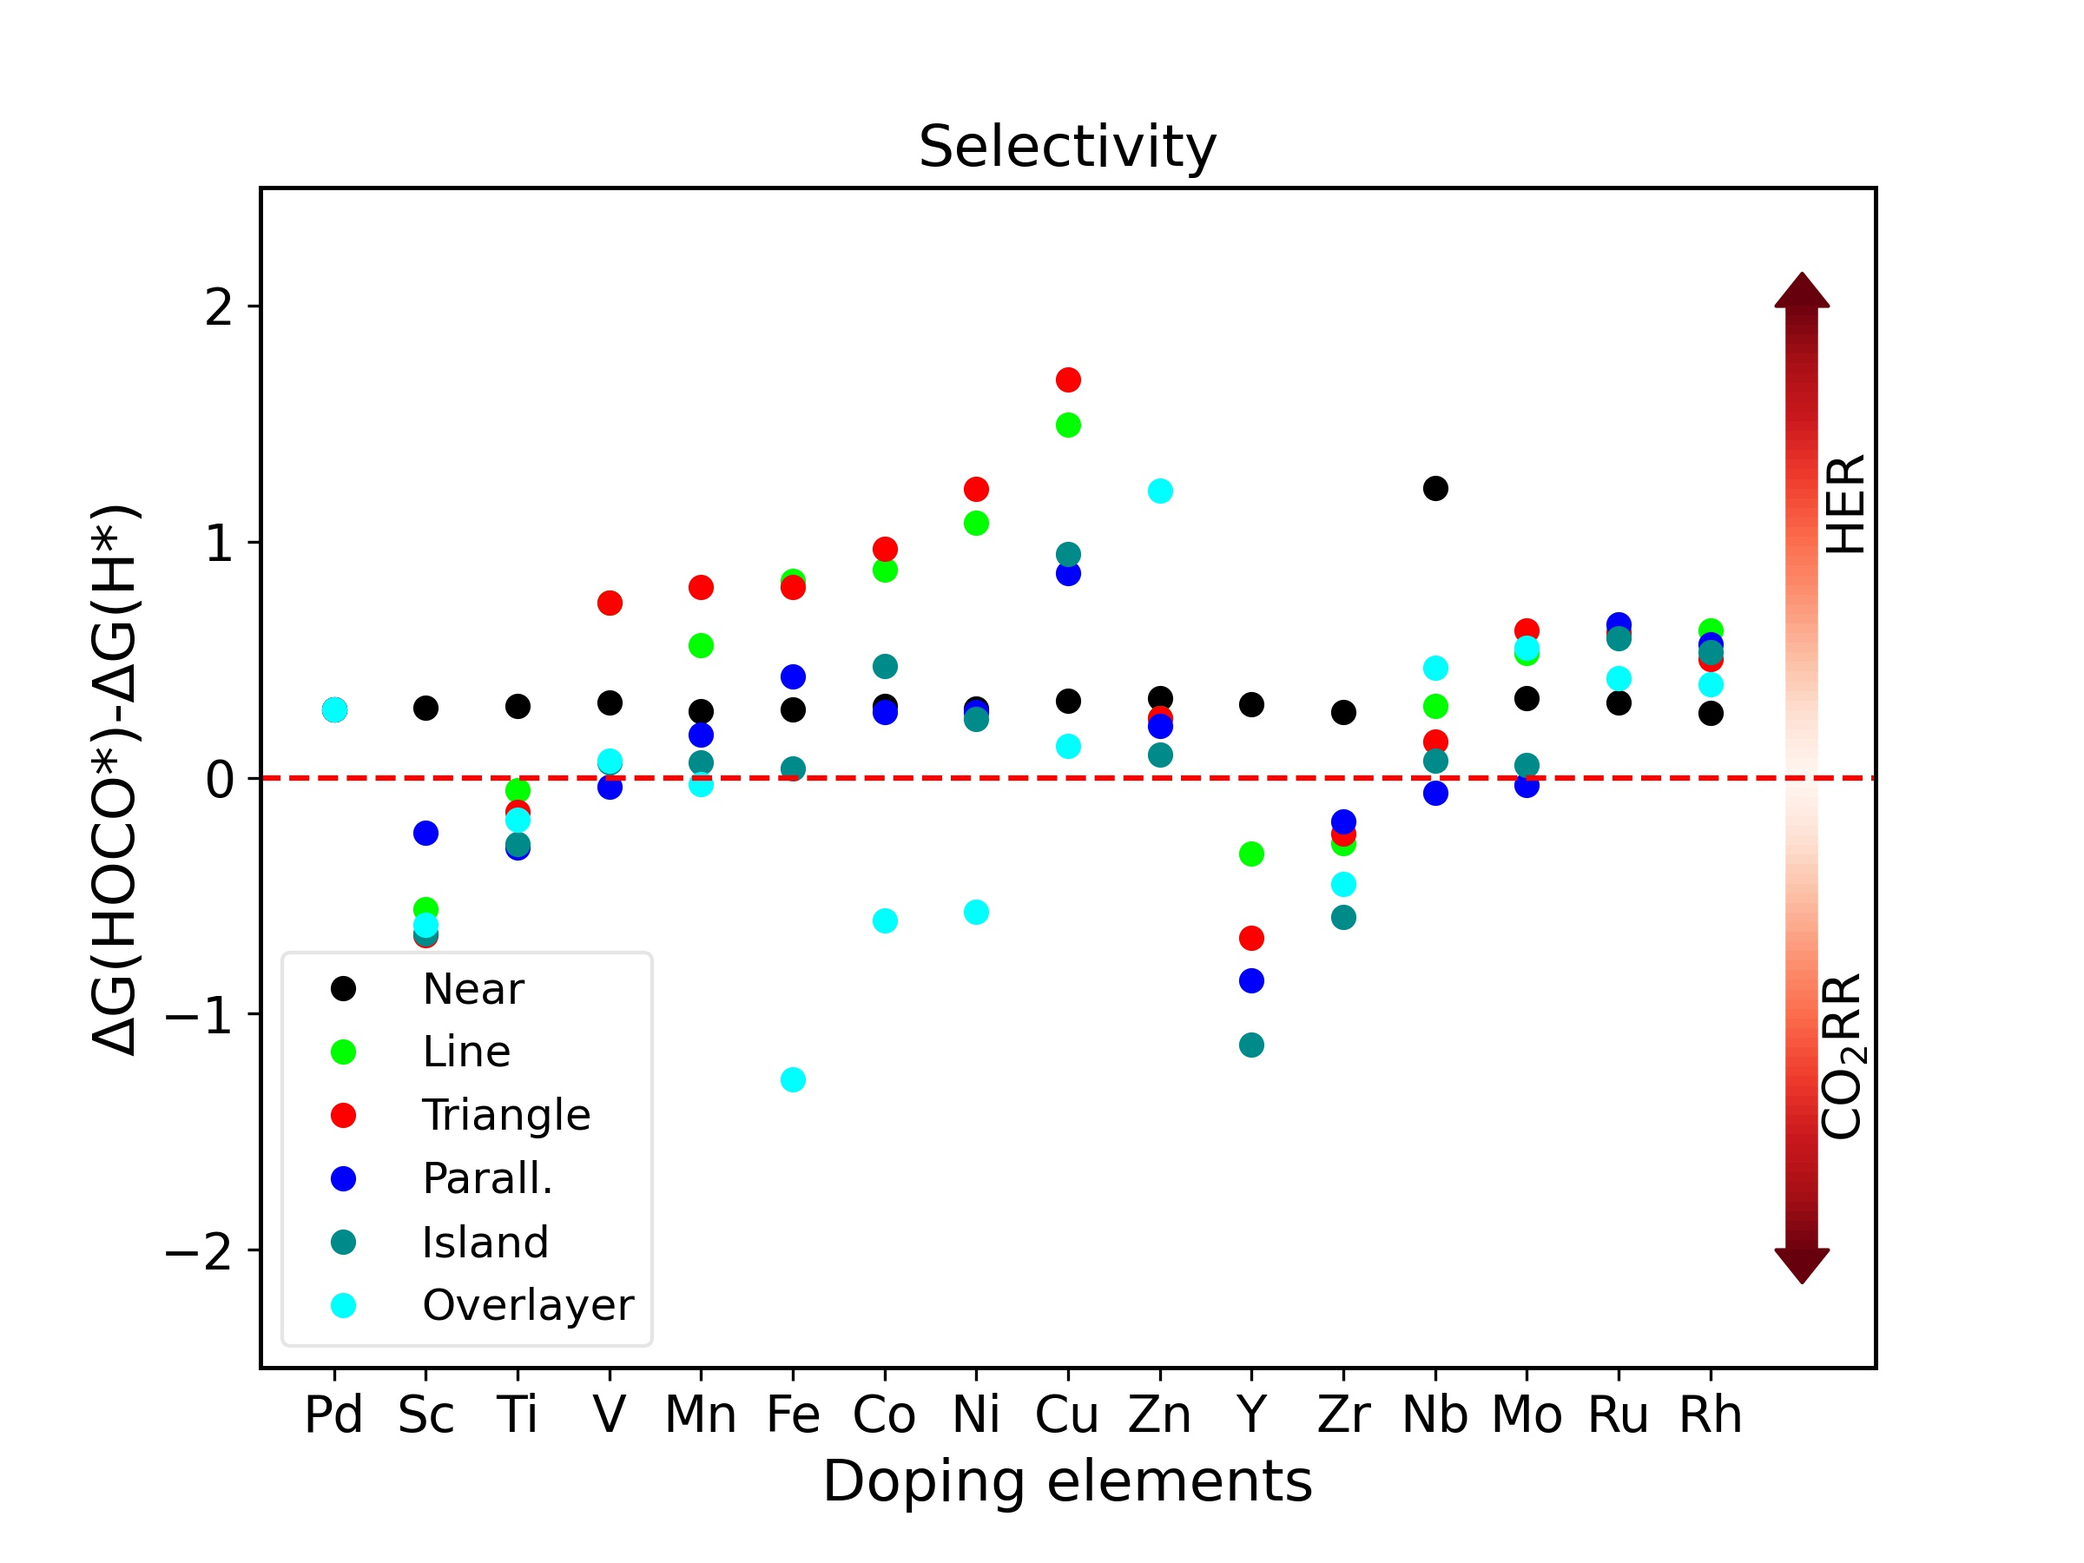
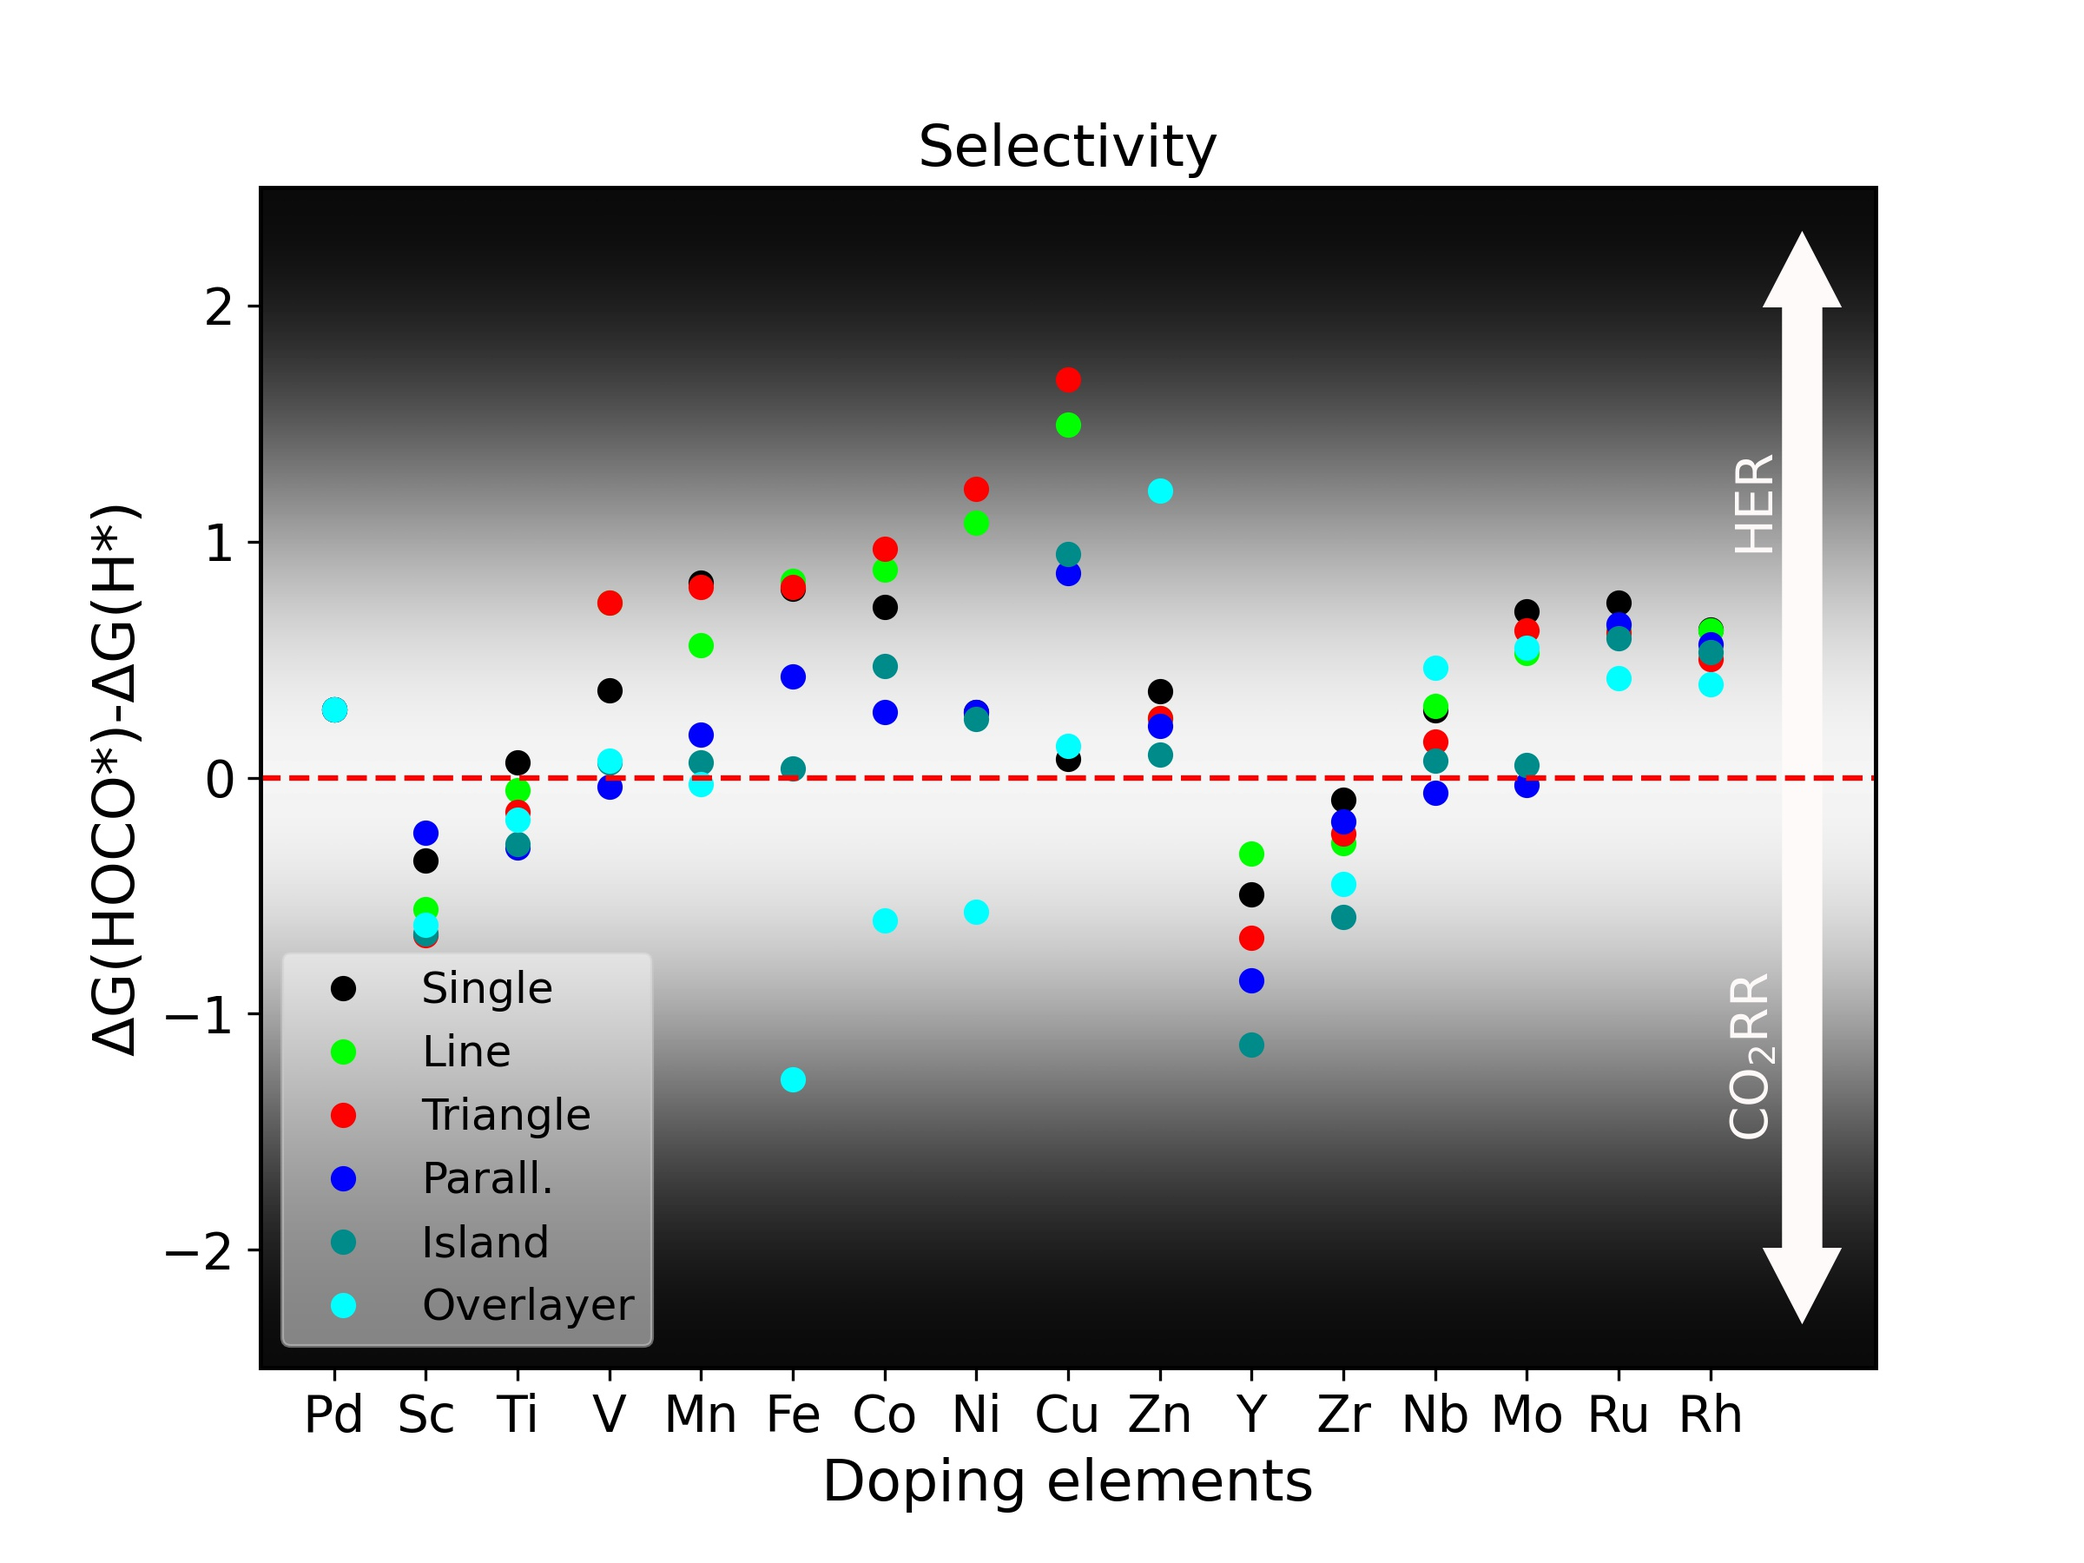
update data

diff --git a/plotpackage/myproject/CO2RR_sacling_typesetting.py b/plotpackage/myproject/CO2RR_sacling_typesetting.py
@@ -25,53 +25,60 @@ max_col = 5 #5th column in excel
 figName1 = '../pictures/CO2RR_FreeEnergy_typesetting.jpg'  #free energy diagram name
 figName2 = '../pictures/ScalingRelation_typesetting.jpg' #scaling reation figure name
 
-i = 0
-fig = plt.figure(figsize=(18, 16), dpi = 300)
-text = ['Near', 'Line', 'Triangle', 'Parall.', 'Island', 'Overlayer']
-# col1 = [2, 2, 2, 3, 3, 5] #column in excel
-# col2 = [3, 5, 4, 5, 4, 4] #column in excel
-col1=2 # column in excel
-col2=3 # column in excel
-col1 = col1 - 2
-col2 = col2 - 2
-for types in ['near-new', 'line', 'triangle', 'paral-new', 'island-new', 'overly-new']:
-    #change it only for excel
-    sheet = types #Sheet1 by defaut
-    min_row = 1 #1st column in excel
-    max_row = 18 #9st column in excel
-    
-    ############ plot free energy diagram ###############
-    stepsNames, observationName, X = read_excel(filename, sheet, min_col, max_col, min_row, max_row) #load excel data
-    #stepsNames, observationName, X = read_csv(filename, , min_col, max_col) #load csv data
-    
-    # # del rows; delete according to element names in excel
-    del_ele = []
-    if types == 'near-new':
-        del_ele = ['Fe', 'Ru', 'Zr', 'Y', 'Mn', 'Nb', 'Zn' ] #remove distortion for near
-    elif types == 'line':
-        del_ele = ['Ag', 'Y'] #remove distortion for line
-    elif types == 'triangle':
-        del_ele = ['Y',] #remove distortion for triangle
-    elif types == 'paral-new':
-        del_ele = ['Zn', 'Y', 'Zr'] #remove distortion for line
-    elif types == 'island-new':
-        del_ele = ['Y', 'Zr',  'Zn'] #remove distortion for line
-    elif types == 'overly-new':
-        del_ele = ['Sc', 'Zn', 'Y', 'Zr'] #remove distortion for line
+
+# text = ['Near', 'Line', 'Triangle', 'Parall.', 'Island', 'Overlayer']
+text = ['Single', 'Line', 'Triangle', 'Parall.', 'Island', 'Overlayer']
+colx = [2, 2, 2, 3, 3, 5] #column in excel
+coly = [3, 5, 4, 5, 4, 4] #column in excel
+for index in [0, 1, 4]:
+    # col1=3 # column in excel
+    # col2=4 # column in excel
+    col1=colx[index] # column in excel
+    col2=coly[index] # column in excel
+    col1 = col1 - 2
+    col2 = col2 - 2
+    i = 0
+    fig = plt.figure(figsize=(18, 16), dpi = 300)
+    for types in ['top-new', 'line', 'triangle', 'paral-new', 'island-new', 'overly-new']:
+        #change it only for excel
+        sheet = types #Sheet1 by defaut
+        min_row = 1 #1st column in excel
+        max_row = 18 #9st column in excel
         
-    del_rows = [observationName.index(each)+2 for each in del_ele]
-    ### del_rows = [10, 12, 13, 18]  #delete according to rows in excel
-    del_list = [x - 2 for x in del_rows]
-    observationName = np.delete(observationName, del_list, 0)
-    X = np.delete(X, del_list, 0)
-    
-    M  = 3
-    ax = plt.subplot(3, 3, i + 1)
-    descriper1 = (X[:, col1]).astype(float) 
-    descriper2 = (X[:, col2]).astype(float) 
-    sr = ScalingRelationPlot(descriper1, descriper2, observationName, figName2)   
-    sr.plot(ax = ax, save=False, title='', xlabel=stepsNames[col1], ylabel=stepsNames[col2], text=text[i])
-    
-    i = i +1
-    
-plt.show()
+        ############ plot free energy diagram ###############
+        stepsNames, observationName, X = read_excel(filename, sheet, min_col, max_col, min_row, max_row) #load excel data
+        #stepsNames, observationName, X = read_csv(filename, , min_col, max_col) #load csv data
+        
+        # # del rows; delete according to element names in excel
+        del_ele = []
+        if types == 'top-new':
+            del_ele = [] #remove distortion for near
+        if types == 'near-new':
+            del_ele = ['Fe', 'Ru', 'Zr', 'Y', 'Mn', 'Nb', 'Zn' ] #remove distortion for near
+        elif types == 'line':
+            del_ele = ['Ag', 'Y'] #remove distortion for line
+        elif types == 'triangle':
+            del_ele = ['Y',] #remove distortion for triangle
+        elif types == 'paral-new':
+            del_ele = ['Zn', 'Y', 'Zr'] #remove distortion for line
+        elif types == 'island-new':
+            del_ele = ['Y', 'Zr',  'Zn'] #remove distortion for line
+        elif types == 'overly-new':
+            del_ele = ['Sc', 'Zn', 'Y', 'Zr'] #remove distortion for line
+            
+        del_rows = [observationName.index(each)+2 for each in del_ele]
+        ### del_rows = [10, 12, 13, 18]  #delete according to rows in excel
+        del_list = [x - 2 for x in del_rows]
+        observationName = np.delete(observationName, del_list, 0)
+        X = np.delete(X, del_list, 0)
+        
+        M  = 3
+        ax = plt.subplot(3, 3, i + 1)
+        descriper1 = (X[:, col1]).astype(float) 
+        descriper2 = (X[:, col2]).astype(float) 
+        sr = ScalingRelationPlot(descriper1, descriper2, observationName, figName2)   
+        sr.plot(ax = ax, save=False, title='', xlabel=stepsNames[col1], ylabel=stepsNames[col2], text=text[i])
+        
+        i = i +1
+        
+    plt.show()

diff --git a/plotpackage/myproject/selectivity_multi_plot.py b/plotpackage/myproject/selectivity_multi_plot.py
@@ -50,49 +50,60 @@ ax = fig.gca()
 ax.set_xticks(x)
 ax.set_xticklabels(observationName)
 
+
 ax.tick_params(labelsize=14) #tick label font size
 for axis in ['top','bottom','left','right']:
     ax.spines[axis].set_linewidth(1.2) #linewith of frame
+
     
-    
-# plt.arrow(x=16, y=0, dx=0, dy=2, width=.4, head_width=0.8, head_length=0.3) 
-# plt.annotate('HER', xy = (16.5, 1), rotation=90, fontsize=14)
+plt.arrow(x=16, y=0, dx=0, dy=2, width=.4, head_width=0.8, head_length=0.3, color='snow') 
+plt.annotate('HER', xy = (15.2, 1), rotation=90, fontsize=14, color='snow')
 
-# plt.arrow(x=16, y=0, dx=0, dy=-2, width=.4, head_width=0.8, head_length=0.3) 
-# plt.annotate('CO$_2$RR', xy = (16.5, -1.5), rotation=90, fontsize=14)
-import matplotlib.transforms
-import matplotlib.path
-from matplotlib.collections import LineCollection
+plt.arrow(x=16, y=0, dx=0, dy=-2, width=.4, head_width=0.8, head_length=0.3, color='snow') 
+plt.annotate('CO$_2$RR', xy = (15.2, -1.5), rotation=90, fontsize=14, color='snow')
+# import matplotlib.transforms
+# import matplotlib.path
+# from matplotlib.collections import LineCollection
 
-def rainbowarrow(ax, start, end, cmap="viridis", n=50,lw=3):
-    cmap = plt.get_cmap(cmap,n)
-    # Arrow shaft: LineCollection
-    x = np.linspace(start[0],end[0],n)
-    y = np.linspace(start[1],end[1],n)
-    points = np.array([x,y]).T.reshape(-1,1,2)
-    segments = np.concatenate([points[:-1],points[1:]], axis=1)
-    lc = LineCollection(segments, cmap=cmap, linewidth=lw)
-    lc.set_array(np.linspace(0,1,n))
-    ax.add_collection(lc)
-    # Arrow head: Triangle
-    tricoords = [(0,-0.4),(0.5,0),(0,0.4),(0,-0.4)]
-    angle = np.arctan2(end[1]-start[1],end[0]-start[0])
-    rot = matplotlib.transforms.Affine2D().rotate(angle)
-    tricoords2 = rot.transform(tricoords)
-    tri = matplotlib.path.Path(tricoords2, closed=True)
-    ax.scatter(end[0],end[1], c=1, s=(2*lw)**2, marker=tri, cmap=cmap,vmin=0)
-    ax.autoscale_view()
+# def rainbowarrow(ax, start, end, cmap="viridis", n=50,lw=3):
+#     cmap = plt.get_cmap(cmap,n)
+#     # Arrow shaft: LineCollection
+#     x = np.linspace(start[0],end[0],n)
+#     y = np.linspace(start[1],end[1],n)
+#     points = np.array([x,y]).T.reshape(-1,1,2)
+#     segments = np.concatenate([points[:-1],points[1:]], axis=1)
+#     lc = LineCollection(segments, cmap=cmap, linewidth=lw)
+#     lc.set_array(np.linspace(0,1,n))
+#     ax.add_collection(lc)
+#     # Arrow head: Triangle
+#     tricoords = [(0,-0.4),(0.5,0),(0,0.4),(0,-0.4)]
+#     angle = np.arctan2(end[1]-start[1],end[0]-start[0])
+#     rot = matplotlib.transforms.Affine2D().rotate(angle)
+#     tricoords2 = rot.transform(tricoords)
+#     tri = matplotlib.path.Path(tricoords2, closed=True)
+#     ax.scatter(end[0],end[1], c=1, s=(2*lw)**2, marker=tri, cmap=cmap,vmin=0)
+#     ax.autoscale_view()
 
-rainbowarrow(ax, (16,0), (16, 2), cmap='Reds', n=50, lw=9) 
-plt.annotate('HER', xy = (16.2, 1), rotation=90, fontsize=14)
+# rainbowarrow(ax, (16,0), (16, 2), cmap='Reds', n=50, lw=9) 
+# plt.annotate('HER', xy = (16.2, 1), rotation=90, fontsize=14)
 
-rainbowarrow(ax, (16,0), (16, -2), cmap='Reds', n=50, lw=9) 
-plt.annotate('CO$_2$RR', xy = (16.2, -1.5), rotation=90, fontsize=14)
-# plt.arrow(x=16, y=0, dx=0, dy=-2, width=.4, head_width=0.8, head_length=0.3) 
-# plt.annotate('CO$_2$RR', xy = (16.5, -1.5), rotation=90, fontsize=14)
+# rainbowarrow(ax, (16,0), (16, -2), cmap='Reds', n=50, lw=9) 
+# plt.annotate('CO$_2$RR', xy = (16.2, -1.5), rotation=90, fontsize=14)
+
+
+# ax.set_facecolor("orange")
+plotlim = plt.xlim() + plt.ylim() 
+ax.imshow([[.6, .6], [.7, .7]], interpolation='bicubic', cmap=plt.cm.gray, extent=(-0.8, 16.8, 0, 2.5))
+ax.imshow([[.6, .6], [.7, .7]], interpolation='bicubic', cmap=plt.cm.gray, extent=(-0.8, 16.8, 0, -2.5))
+ax.set_aspect('auto') 
 
 plt.show()
 
+
+# # ax.set_facecolor("orange")
+# plotlim = plt.xlim() + plt.ylim() 
+# ax.imshow([[.6, .6], [.7, .7]], interpolation='bicubic', cmap=plt.cm.copper, extent=plotlim)
+# plt.draw()  
 
 fig.savefig(figName1)
 

diff --git a/plotpackage/myproject/CO2RR_FED_typesetting.py b/plotpackage/myproject/CO2RR_FED_typesetting.py
@@ -27,14 +27,14 @@ figName2 = '../pictures/ScalingRelation_typesetting.jpg' #scaling reation figure
 
 i = 0
 fig = plt.figure(figsize=(18, 16), dpi = 300)
-text = ['Near', 'Line', 'Triangle', 'Parall.', 'Island', 'Overlayer']
+text = ['Single', 'Line', 'Triangle', 'Parall.', 'Island', 'Overlayer']
 # col1 = [2, 2, 2, 3, 3, 5] #column in excel
 # col2 = [3, 5, 4, 5, 4, 4] #column in excel
 col1=2 # column in excel
 col2=5 # column in excel
 col1 = col1 - 2
 col2 = col2 - 2
-for types in ['near-new', 'line', 'triangle', 'paral-new', 'island-new', 'overly-new']:
+for types in ['top-new', 'line', 'triangle', 'paral-new', 'island-new', 'overly-new']:
     #change it only for excel
     sheet = types #Sheet1 by defaut
     min_row = 1 #1st column in excel
@@ -46,6 +46,8 @@ for types in ['near-new', 'line', 'triangle', 'paral-new', 'island-new', 'overly
     
     # # del rows; delete according to element names in excel
     del_ele = []
+    if types == 'top-new':
+        del_ele = [] #remove distortion for near
     if types == 'near-new':
         del_ele = ['Fe', 'Ru', 'Zr', 'Y', 'Mn', 'Nb', 'Zn' ] #remove distortion for near
     elif types == 'line':
@@ -75,7 +77,7 @@ for types in ['near-new', 'line', 'triangle', 'paral-new', 'island-new', 'overly
     # sr.plot(ax = ax, save=False, title='', xlabel=stepsNames[col1], ylabel=stepsNames[col2], text=text[i])
     
     CO2RRdiagram = CO2RRFEDplot(stepsNames, observationName, X, figName1)
-    CO2RRdiagram.plot(ax = ax, title='', save=False, legandSize = 9.5, text = text[i], ratio=1.4)
+    CO2RRdiagram.plot(ax = ax, title='', save=False, legandSize = 9., text = text[i], ratio=1.4)
     
     i = i +1
     

diff --git a/plotpackage/myproject/CO2RR_TOF_2D_multi.py b/plotpackage/myproject/CO2RR_TOF_2D_multi.py
@@ -202,7 +202,7 @@ figName2 = '../pictures/ScalingRelation_typesetting.jpg' #scaling reation figure
 
 index = 0
 fig = plt.figure(figsize=(18, 16), dpi = 300)
-text = ['Near', 'Line', 'Triangle', 'Parall.', 'Island', 'Overlayer']
+text = ['Single', 'Line', 'Triangle', 'Parall.', 'Island', 'Overlayer']
 # col1 = [2, 2, 2, 3, 3, 5] #column in excel
 # col2 = [3, 5, 4, 5, 4, 4] #column in excel
 col1=2 # column in excel
@@ -263,7 +263,7 @@ for types in ['top-new', 'line', 'triangle', 'paral-new', 'island-new', 'overly-
     plt.ylim([E_HOCO_e[0]+0.1, E_HOCO_e[-1]-0.1])
     ax.tick_params(labelsize=12) #tick label font size
     # plt.title(text[index], fontsize=14,)
-    plt.text(0.05, 0.93, text[index], horizontalalignment='left', verticalalignment='center', transform=ax.transAxes, fontsize=14, color='white')        
+    plt.text(0.05, 0.93, text[index], horizontalalignment='left', verticalalignment='center', transform=ax.transAxes, fontsize=14, color='white', fontweight='bold')        
     # if index==2 or index==5:
     #     bar = plt.colorbar(ticks=np.arange(min(contours), max(contours), 0.5))
     #     bar.set_label(r'log$_{10}$(j/$\mu$Acm$^{-2}$)')

diff --git a/plotpackage/lib/CO2RR.py b/plotpackage/lib/CO2RR.py
@@ -81,7 +81,7 @@ class CO2RRFEDplot:
             plt.hlines(0.1, pos[0], pos[0], color=self.colorList[specis], label= specis)
         plt.legend(fontsize=legandSize)
         plt.title(title, fontsize=14)
-        plt.text(0.04, 0.93, text, horizontalalignment='left', verticalalignment='center', transform=axFree.transAxes, fontsize=14)        
+        plt.text(0.04, 0.93, text, horizontalalignment='left', verticalalignment='center', transform=axFree.transAxes, fontsize=14, fontweight='bold')        
         axFree.yaxis.set_label_coords(-0.1, 0.5)
         axFree.yaxis.set_major_formatter(FormatStrFormatter('%.1f'))
         #save figure

diff --git a/plotpackage/lib/scalingrelation.py b/plotpackage/lib/scalingrelation.py
@@ -39,7 +39,7 @@ class ScalingRelationPlot:
         ax.yaxis.set_major_formatter(FormatStrFormatter('%.2f'))
         plt.margins(y=0.08)
         plt.title(title, fontsize=14)
-        plt.text(0.05, 0.93, text, horizontalalignment='left', verticalalignment='center', transform=ax.transAxes, fontsize=14)        
+        plt.text(0.05, 0.93, text, horizontalalignment='left', verticalalignment='center', transform=ax.transAxes, fontsize=14, fontweight='bold')        
         #get current axis object and change format
         #ax = fig.gca()
         ax.tick_params(labelsize=12) #tick label font size

diff --git a/plotpackage/myproject/CO2RR_plot_binding_energy_multi.py b/plotpackage/myproject/CO2RR_plot_binding_energy_multi.py
@@ -49,6 +49,8 @@ del_ele = []
 # del_ele = ['Y',] #remove distortion for triangle
 # del_ele = ['Ag', 'Y', 'Cu'] #remove distortion for line
 # del_ele = ['Fe', 'Ru', 'Zr', 'Y', 'Mn', 'Nb', 'Zn' ] #remove distortion for near
+# del_ele = ['Co', 'Ni', 'Cu', 'Zn', 'Ag'] #remove distortion for top
+del_ele = ['Mn'] #remove distortion for island
 del_rows = [observationName.index(each)+2 for each in del_ele]
 ### del_rows = [10, 12, 13, 18]  #delete according to rows in excel
 del_list = [x -2 for x in del_rows]

diff --git a/plotpackage/myproject/CO2RR_plot_free_energy_diagram.py b/plotpackage/myproject/CO2RR_plot_free_energy_diagram.py
@@ -48,7 +48,7 @@ CO2RRdiagram = CO2RRFEDplot(stepsNames, observationName, X, figName1)
 # CO2RRdiagram.add_link(start_id=0, end_id=3)
 # CO2RRdiagram.remove_link(start_id=0, end_id=1)
 
-CO2RRdiagram.plot(title=sheet)
+CO2RRdiagram.plot(title=sheet, legandSize=11.5)
 
 # descriper1 = (X[:, 1] - X[:, 0]).astype(float) #step2-step1
 # descriper2 = (X[:, 2] - X[:, 3]).astype(float) #step3-step4
